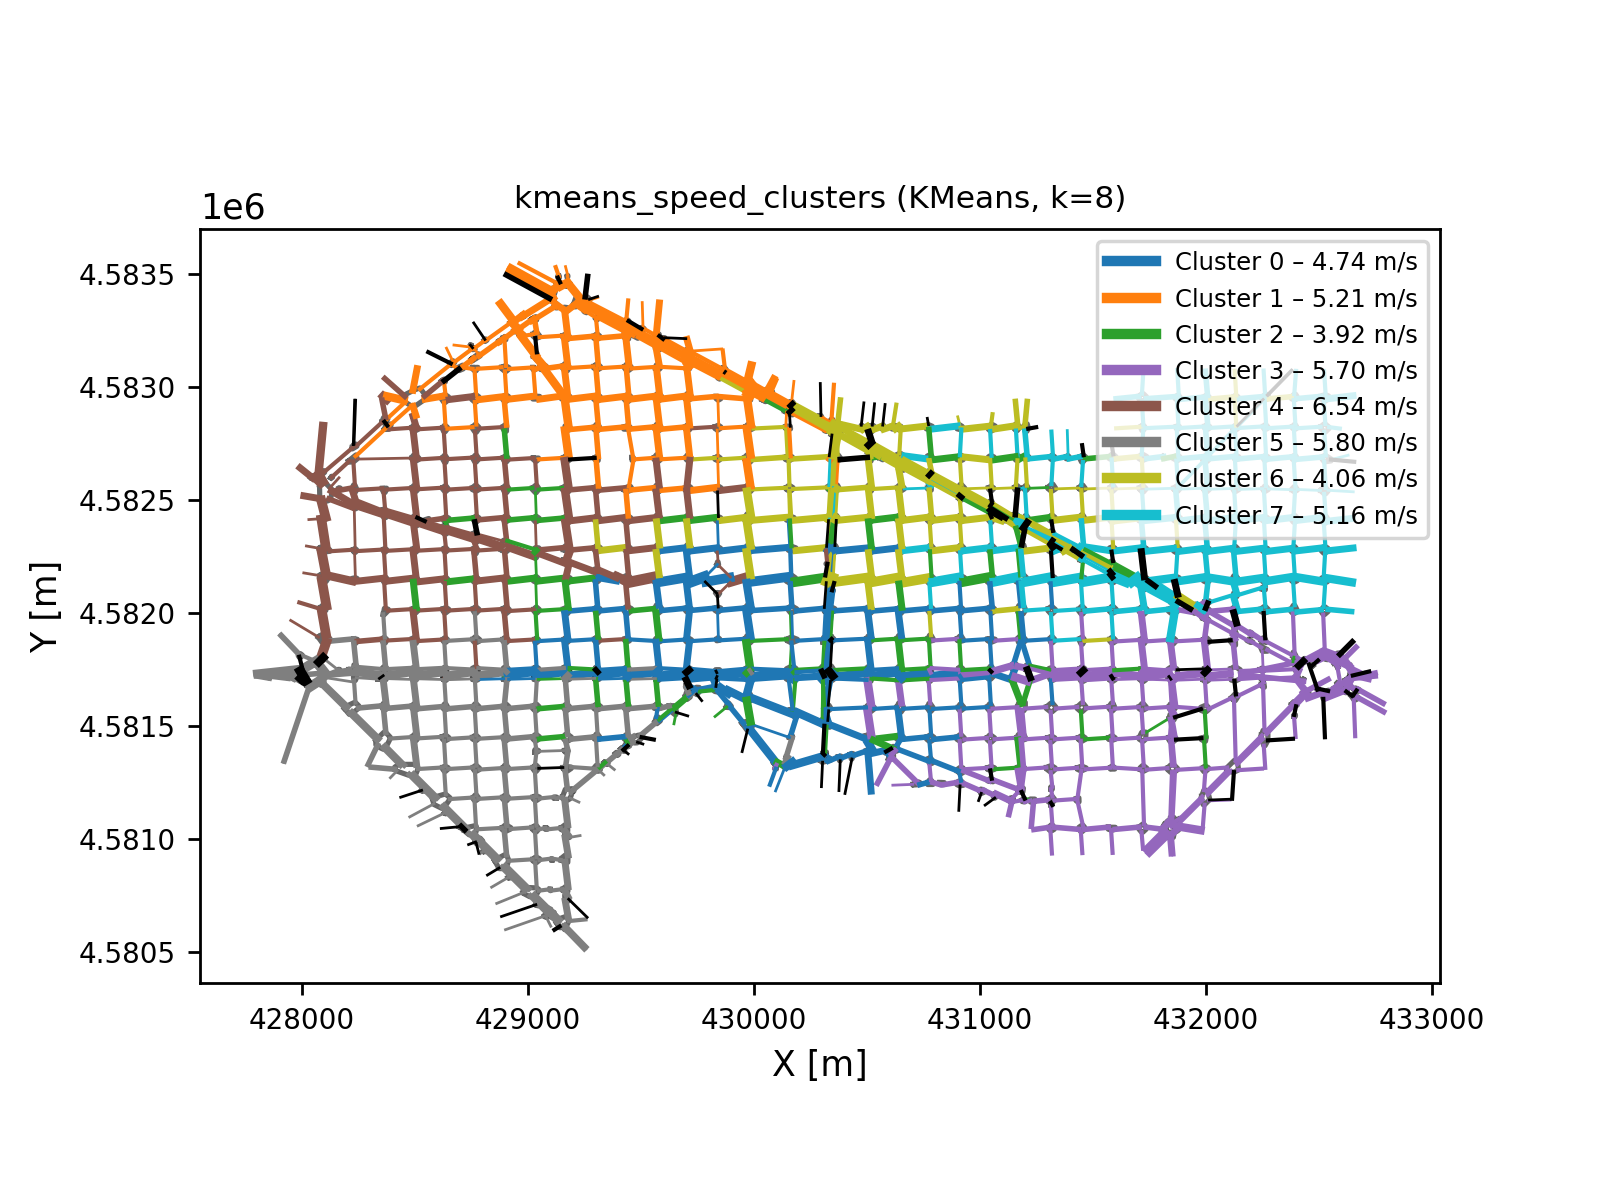
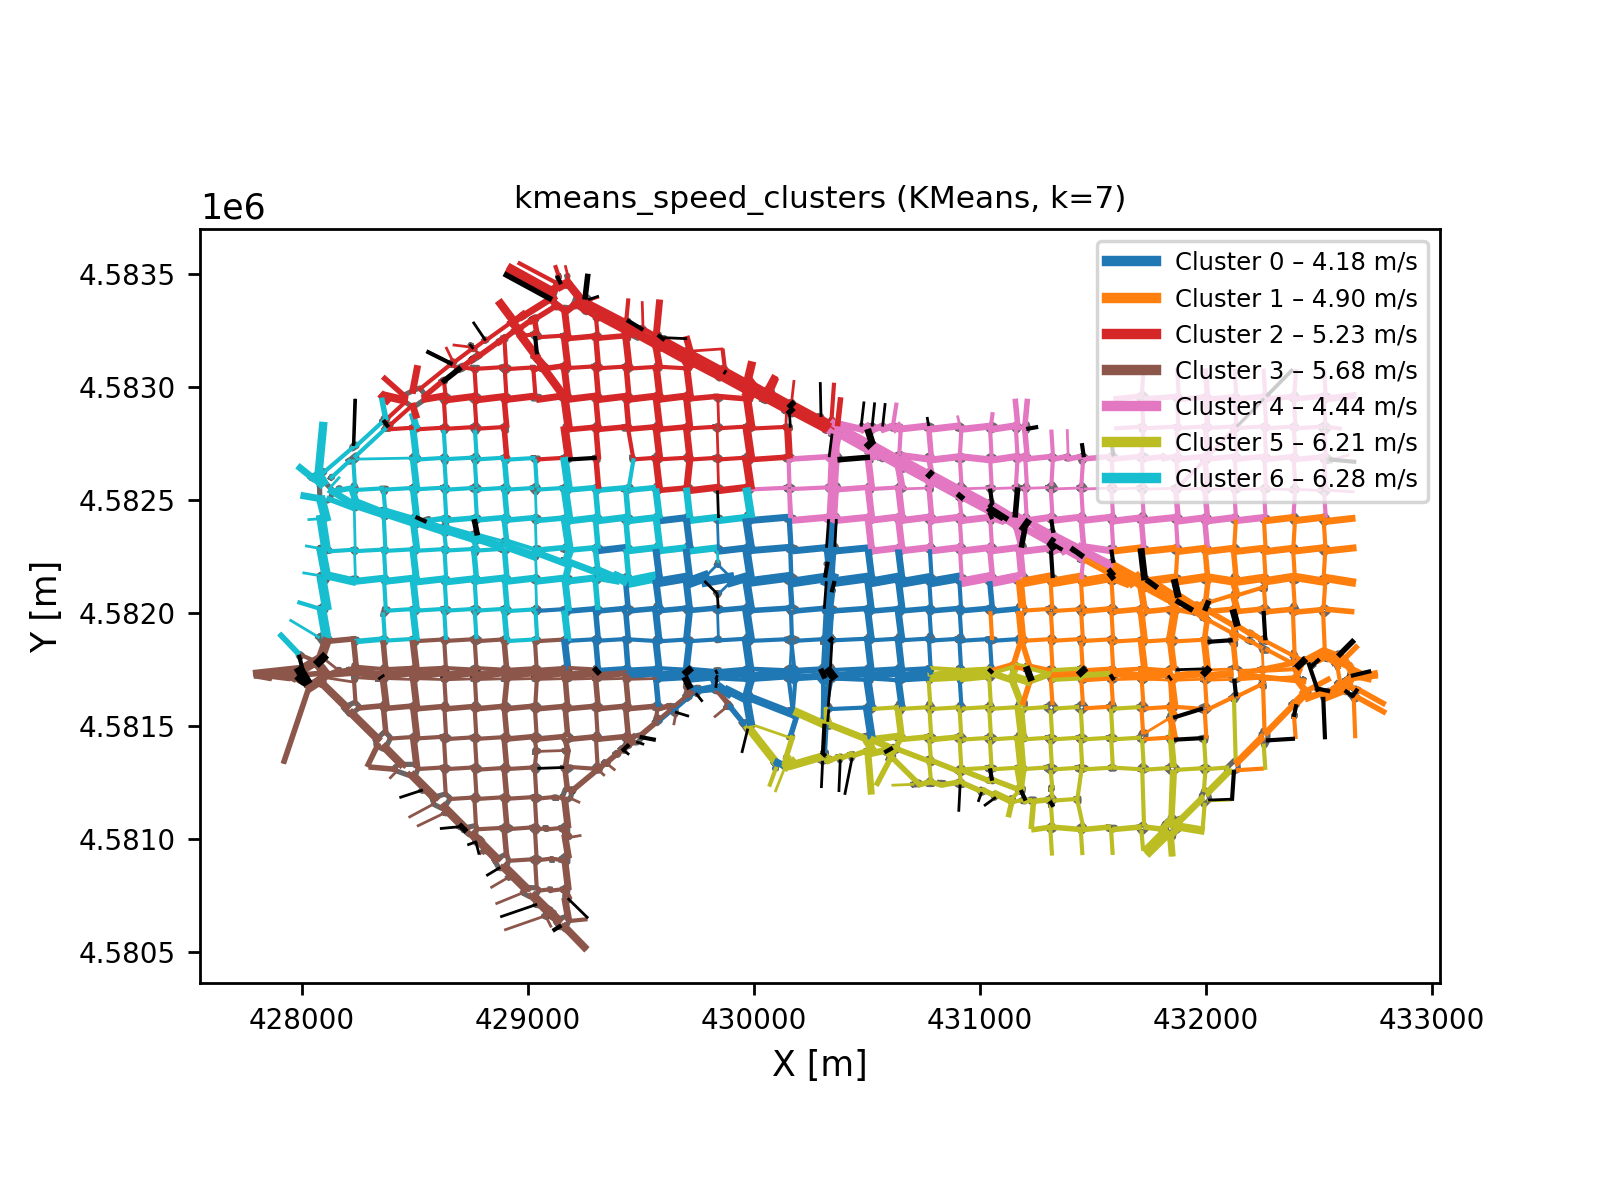
Amount Clusters

Changed region(s): [[0.1562, 0.2158, 0.9062, 0.8017]]

diff --git a/main.py b/main.py
@@ -340,7 +340,7 @@ def kmeans_clust(n_clusters, random_states, name):
 
 ############################# KMEANS WITH VELOCITY / TRAFFIC FEATURES #############################
 
-def kmeans_clustering(n_clusters, name, feature_type, random_state=42, threshold=np.array([]), filter=False):
+def kmeans_clustering(n_clusters, name, feature_type, random_state=42, threshold=np.array([]), filter=False, show=True):
     """
     KMeans clustering using the same rich traffic feature vectors as the Ward
     method, making it directly comparable with `clustering()`.
@@ -589,14 +589,24 @@ def kmeans_clustering(n_clusters, name, feature_type, random_state=42, threshold
 
     # ── Save ───────────────────────────────────────────────────────────────────
     if filter == True:
-        fig.savefig(f"{folder}/{name}_filtered.png")
-        plt.close(fig)
-        print(f"Saved → {folder}/{name}_filtered.png")
-    else:    
-        fig.savefig(f"{folder}/{name}_best.png")
-        plt.close(fig)
-        print(f"Saved → {folder}/{name}_best.png")
-
+        if show:
+            fig.savefig(f"{folder}/{n_clusters}_{name}_filtered.png")
+            plt.close(fig)
+            print(f"Saved → {folder}/{n_clusters}_{name}_filtered.png")
+        else:
+            fig.savefig(f"{folder}/{name}_filtered.png")
+            plt.close(fig)
+            print(f"Saved → {folder}/{name}_filtered.png")
+    else:
+        if show:
+            fig.savefig(f"{folder}/{n_clusters}_{name}_best.png")
+            plt.close(fig)
+            print(f"Saved → {folder}/{n_clusters}_{name}_best.png")
+        else:
+            fig.savefig(f"{folder}/{name}_best.png")
+            plt.close(fig)
+            print(f"Saved → {folder}/{name}_best.png")
+            
 
 ############################# CLUSTERING (using a library) (WARD / AGGLOMERATIVE) #############################
 os.makedirs(f"figure/clustering", exist_ok = True)
@@ -622,11 +632,11 @@ def fill_profile_nans(profile):
     """
     Fills the NaNs with the median of each column of the profile, i.e. the 2D NumPy array of the mean_over_session of a parameter.
     """
-    filled = profile.copy()
-    time_medians = np.nanmedian(filled, axis=0)
-    time_medians = np.where(np.isnan(time_medians), 0.0, time_medians)
-    nan_rows, nan_cols = np.where(np.isnan(filled))
-    filled[nan_rows, nan_cols] = time_medians[nan_cols]
+    filled = profile.copy() 
+    time_medians = np.nanmedian(filled, axis=0) 
+    time_medians = np.where(np.isnan(time_medians), 0.0, time_medians) 
+    nan_rows, nan_cols = np.where(np.isnan(filled)) 
+    filled[nan_rows, nan_cols] = time_medians[nan_cols] 
     return filled
 
 
@@ -693,7 +703,7 @@ def temporal_cluster_features(profile, peak_mode, spatial_weight=2, dynamic_weig
     ])
 
 
-def build_cluster_features(feature_type, threshold=np.array([]), filter=False):
+def build_cluster_features(feature_type, timeframe, threshold=np.array([]), filter=False, one_timeframe = False):
     """
     Build feature matrices for clustering based on different traffic descriptors.
 
@@ -705,7 +715,6 @@ def build_cluster_features(feature_type, threshold=np.array([]), filter=False):
     """
     vdist = DL._vdist_3min.astype(float)
     vtime = DL._vtime_3min.astype(float)
-
 
     # to_remove = small_and_slow()
     # n_links = vdist.shape[2]
@@ -730,7 +739,7 @@ def build_cluster_features(feature_type, threshold=np.array([]), filter=False):
             out=np.full(vdist.shape, np.nan, dtype=float),
             where=vtime != 0,
         )
-        #speed_profile = np.log1p(mean_over_sessions(speed)).T
+            
         speed_profile = mean_over_sessions(speed)
         
         ### FILTER ###
@@ -741,7 +750,7 @@ def build_cluster_features(feature_type, threshold=np.array([]), filter=False):
                 speed_profile = speed_profile[:, mask]
         ##############
         
-        return temporal_cluster_features(speed_profile.T, peak_mode="min",threshold=threshold, filter=filter)
+        return temporal_cluster_features(speed_profile.T, peak_mode="min", threshold=threshold, filter=filter)
 
     if feature_type == "distance":
         distance = np.where(vdist != 0, vdist, np.nan)
@@ -1319,17 +1328,17 @@ param_name = [
 
 n_clus = 8
 seeds = np.linspace(0, 9, 10)
-grid_clust(20, 16, 85)
-grid_clust(20, 16, 65)
-grid_clust(20, 16, 55)
-grid_clust(20, 16, 45)
+# grid_clust(20, 16, 85)
+# grid_clust(20, 16, 65)
+# grid_clust(20, 16, 55)
+# grid_clust(20, 16, 45)
 
 ### Spatial KMeans (multiple seeds)
 # kmeans_clust(n_clus, seeds, "kmeans")
 
 ### Threshold
 th = thresholds(max_speed=2, max_length=np.inf)
-print(th)
+#print(th)
 
 # ### Ward (agglomerative) – feature-driven, connectivity-constrained
 # # clustering(n_clus, "geometric_clusters", "geometric")
@@ -1338,8 +1347,8 @@ print(th)
 # # clustering(n_clus, "speed_clusters", "speed", threshold=th)
 
 # ## KMeans with velocity/traffic features  ← NEW
-kmeans_clustering(n_clus, "kmeans_speed_clusters",    "speed", threshold=th)
-kmeans_clustering(n_clus, "kmeans_speed_clusters",    "speed", threshold=th, filter=True)
+# kmeans_clustering(n_clus, "kmeans_speed_clusters",    "speed", threshold=th)
+# kmeans_clustering(n_clus, "kmeans_speed_clusters",    "speed", threshold=th, filter=True)
 # # kmeans_clustering(n_clus, "kmeans_distance_clusters", "distance")
 # # kmeans_clustering(n_clus, "kmeans_time_clusters",     "time")
 
@@ -1349,4 +1358,14 @@ kmeans_clustering(n_clus, "kmeans_speed_clusters",    "speed", threshold=th, fil
 
 ### Percolation analysis
 #percolation_analysis()
+
+
+
+##################### CLUSTERS SPAWN POINTS/AMOUNT #####################
+cluster_amount = list(range(2,8,1))
+
+for i in cluster_amount:
+    kmeans_clustering(i, "kmeans_speed_clusters", "speed", threshold=th)
+    
+... # Do for one timeframe
 
